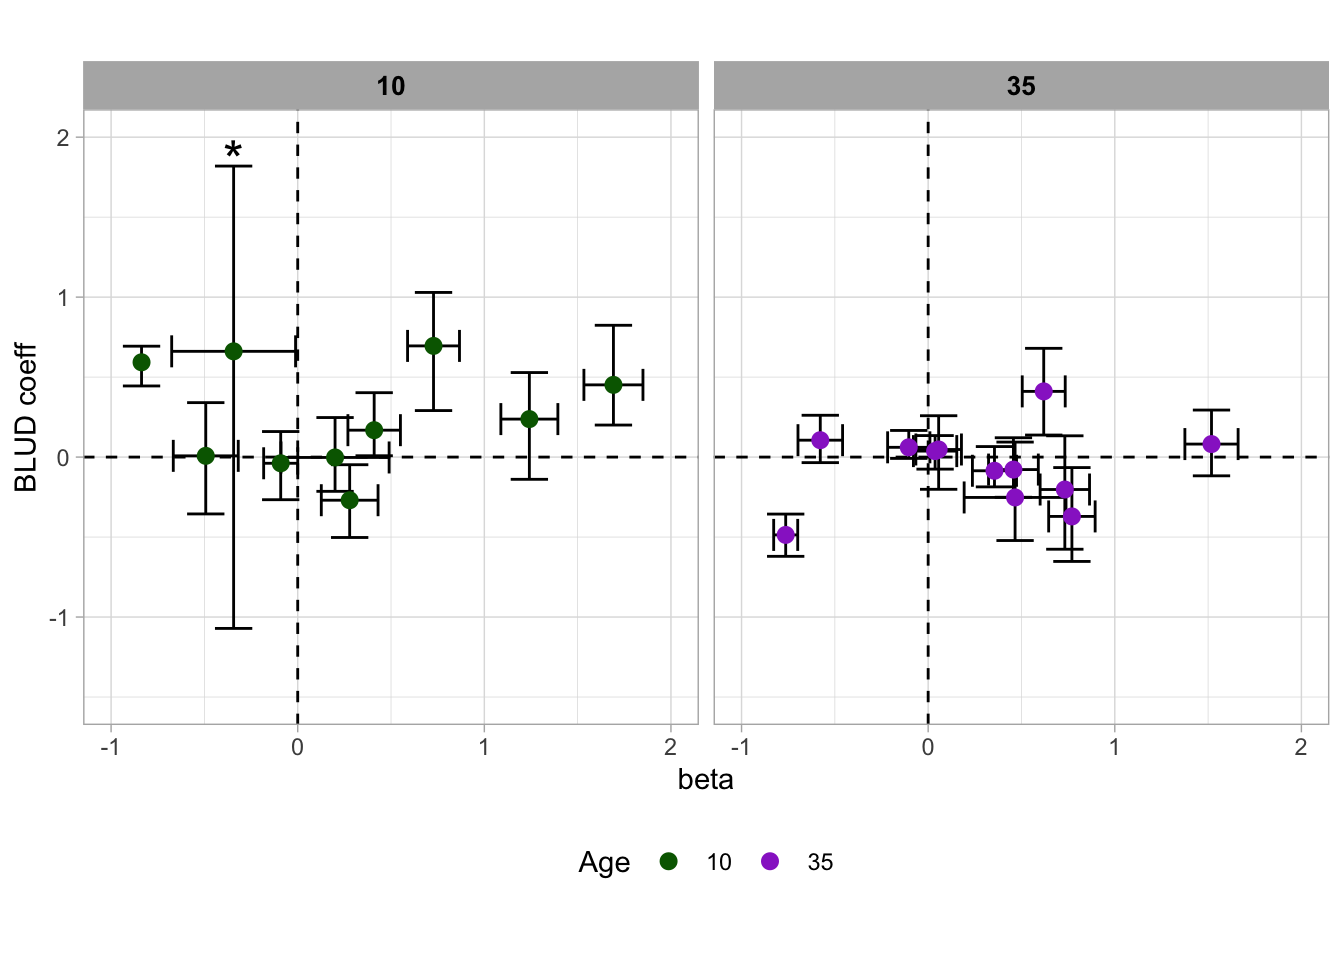
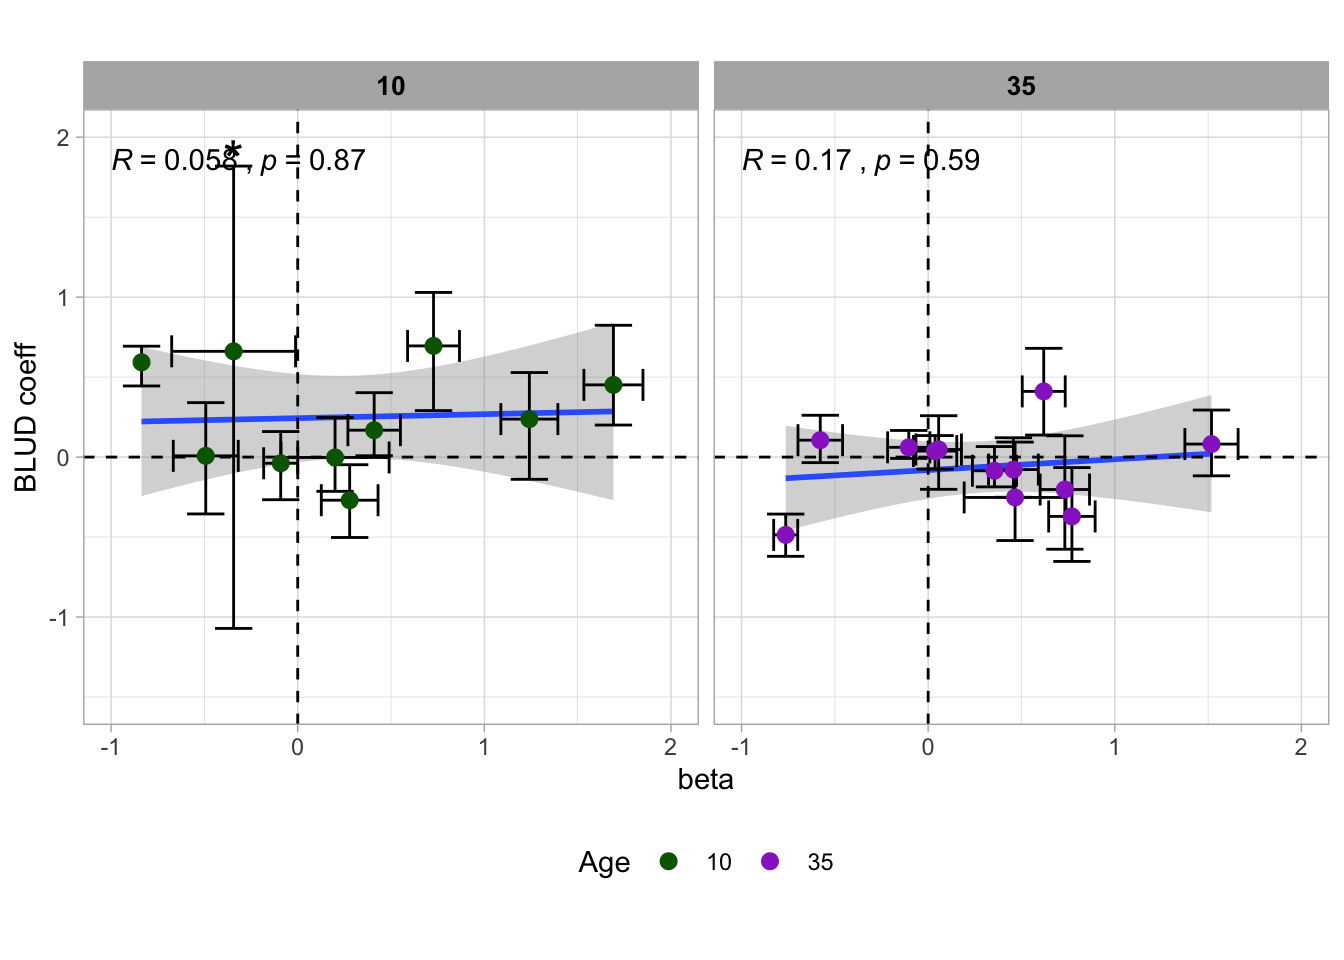
Build site.

diff --git a/docs/Coeffcients.html b/docs/Coeffcients.html
@@ -517,16 +517,16 @@ This reproducible <a href="http://rmarkdown.rstudio.com">R Markdown</a> analysis
 <div class="panel panel-default">
 <div class="panel-heading">
 <p class="panel-title">
-<a data-toggle="collapse" data-parent="#workflowr-checks" href="#strongRepositoryversionstrongahrefhttpsgithubcommcorbaldgrplifespanimmunitytree63eec1b07cdd149efd9f2eea17a5c5ef4eb1d1catargetblank63eec1ba"> <span class="glyphicon glyphicon-ok text-success" aria-hidden="true"></span> <strong>Repository version:</strong> <a href="https://github.com/mcorbal/dgrp_lifespan_immunity/tree/63eec1b07cdd149efd9f2eea17a5c5ef4eb1d1ca" target="_blank">63eec1b</a> </a>
+<a data-toggle="collapse" data-parent="#workflowr-checks" href="#strongRepositoryversionstrongahrefhttpsgithubcommcorbaldgrplifespanimmunitytreec7313e5db19c2c643e4b9871d993efe1c5255edbtargetblankc7313e5a"> <span class="glyphicon glyphicon-ok text-success" aria-hidden="true"></span> <strong>Repository version:</strong> <a href="https://github.com/mcorbal/dgrp_lifespan_immunity/tree/c7313e5db19c2c643e4b9871d993efe1c5255edb" target="_blank">c7313e5</a> </a>
 </p>
 </div>
[2 lines of base64/hex data omitted]
 <div class="panel-body">
 <p>
 Great! You are using Git for version control. Tracking code development and connecting the code version to the results is critical for reproducibility.
 </p>
 <p>
-The results in this page were generated with repository version <a href="https://github.com/mcorbal/dgrp_lifespan_immunity/tree/63eec1b07cdd149efd9f2eea17a5c5ef4eb1d1ca" target="_blank">63eec1b</a>. See the <em>Past versions</em> tab to see a history of the changes made to the R Markdown and HTML files.
+The results in this page were generated with repository version <a href="https://github.com/mcorbal/dgrp_lifespan_immunity/tree/c7313e5db19c2c643e4b9871d993efe1c5255edb" target="_blank">c7313e5</a>. See the <em>Past versions</em> tab to see a history of the changes made to the R Markdown and HTML files.
 </p>
 <p>
 Note that you need to be careful to ensure that all relevant files for the analysis have been committed to Git prior to generating the results (you can use <code>wflow_publish</code> or <code>wflow_git_commit</code>). workflowr only checks the R Markdown file, but you know if there are other scripts or data files that it depends on. Below is the status of the Git repository when the results were generated:
@@ -703,6 +703,40 @@ Message
 </tr>
 </thead>
 <tbody>
+<tr>
+<td>
+Rmd
+</td>
+<td>
+<a href="https://github.com/mcorbal/dgrp_lifespan_immunity/blob/c7313e5db19c2c643e4b9871d993efe1c5255edb/analysis/Coeffcients.Rmd" target="_blank">c7313e5</a>
+</td>
+<td>
+mcorbal
+</td>
+<td>
+2021-08-10
+</td>
+<td>
+Add correlation
+</td>
+</tr>
+<tr>
+<td>
+html
+</td>
+<td>
+<a href="https://rawcdn.githack.com/mcorbal/dgrp_lifespan_immunity/5c3d496b240b777a275649e1d067ec50f14dd91c/docs/Coeffcients.html" target="_blank">5c3d496</a>
+</td>
+<td>
+mcorbal
+</td>
+<td>
+2021-08-10
+</td>
+<td>
+Build site.
+</td>
+</tr>
 <tr>
 <td>
 Rmd
@@ -1946,6 +1980,7 @@ mcorbal
 </table>
 </div>
 </div>
+<pre><code>`geom_smooth()` using formula &#39;y ~ x&#39;</code></pre>
 <div class="figure" style="text-align: center">
 <img src="figure/Coeffcients.Rmd/Age%20beta%20and%20coeffiecients%20for%20all%20lines%20ungrouped%20as%20replicates-1.png" alt="Age effects on BLUD for all lines, ungrouped" width="672" />
 <p class="caption">
@@ -2075,6 +2110,7 @@ mcorbal
 </table>
 </div>
 </div>
+<pre><code>`geom_smooth()` using formula &#39;y ~ x&#39;</code></pre>
 <div class="figure" style="text-align: center">
 <img src="figure/Coeffcients.Rmd/Sex%20beta%20and%20coeffiecients%20for%20all%20lines%20ungrouped%20as%20replicates-1.png" alt="Sex effects on BLUD for all lines, ungrouped" width="672" />
 <p class="caption">
@@ -2221,11 +2257,12 @@ loaded via a namespace (and not attached):
 [103] codetools_0.2-16          boot_1.3-24              
 [105] gtools_3.9.2              assertthat_0.2.1         
 [107] rprojroot_1.3-2           withr_2.4.2              
-[109] bayestestR_0.10.0         parallel_4.0.0           
-[111] hms_0.5.3                 minqa_1.2.4              
-[113] coda_0.19-3               rmarkdown_2.1            
-[115] carData_3.0-4             git2r_0.27.1             
-[117] numDeriv_2016.8-1.1       lubridate_1.7.8          </code></pre>
+[109] mgcv_1.8-31               bayestestR_0.10.0        
+[111] parallel_4.0.0            hms_0.5.3                
+[113] minqa_1.2.4               coda_0.19-3              
+[115] rmarkdown_2.1             carData_3.0-4            
+[117] git2r_0.27.1              numDeriv_2016.8-1.1      
+[119] lubridate_1.7.8          </code></pre>
 </div>
 </div>
 
